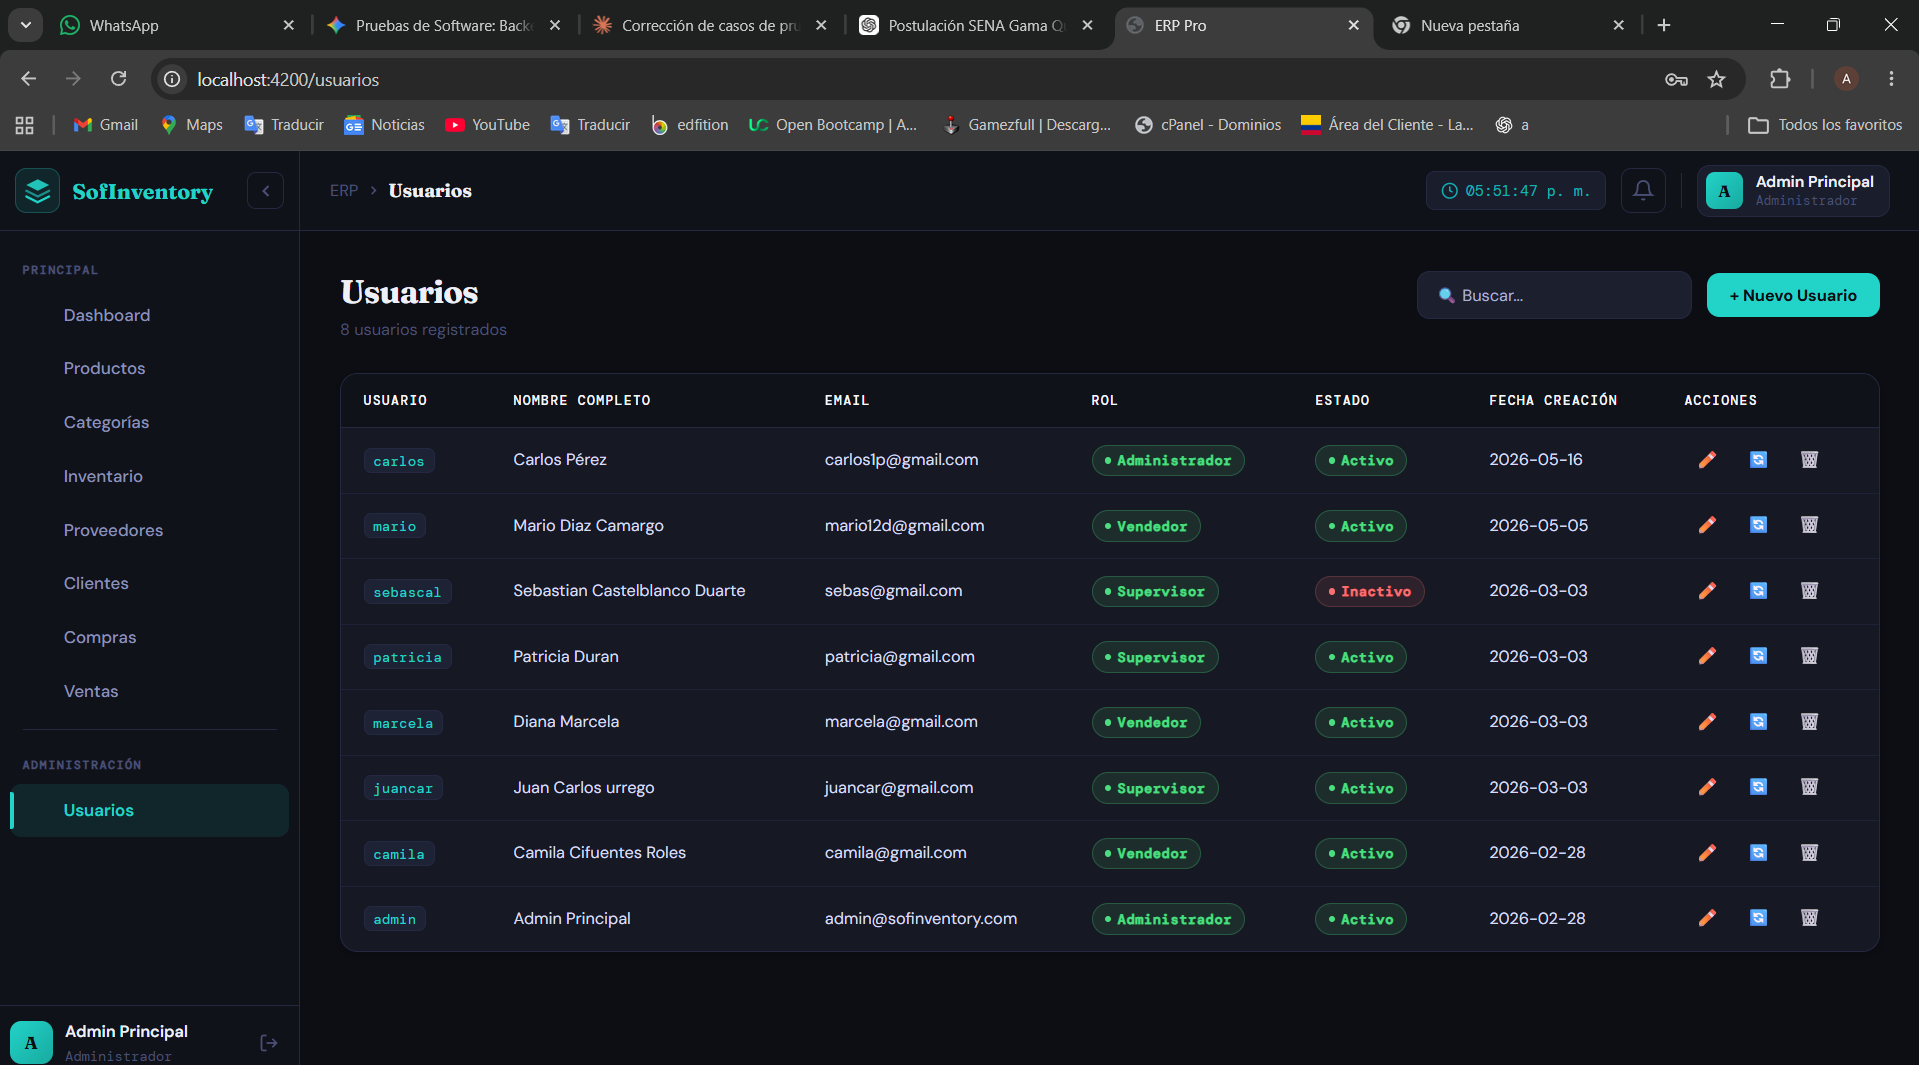
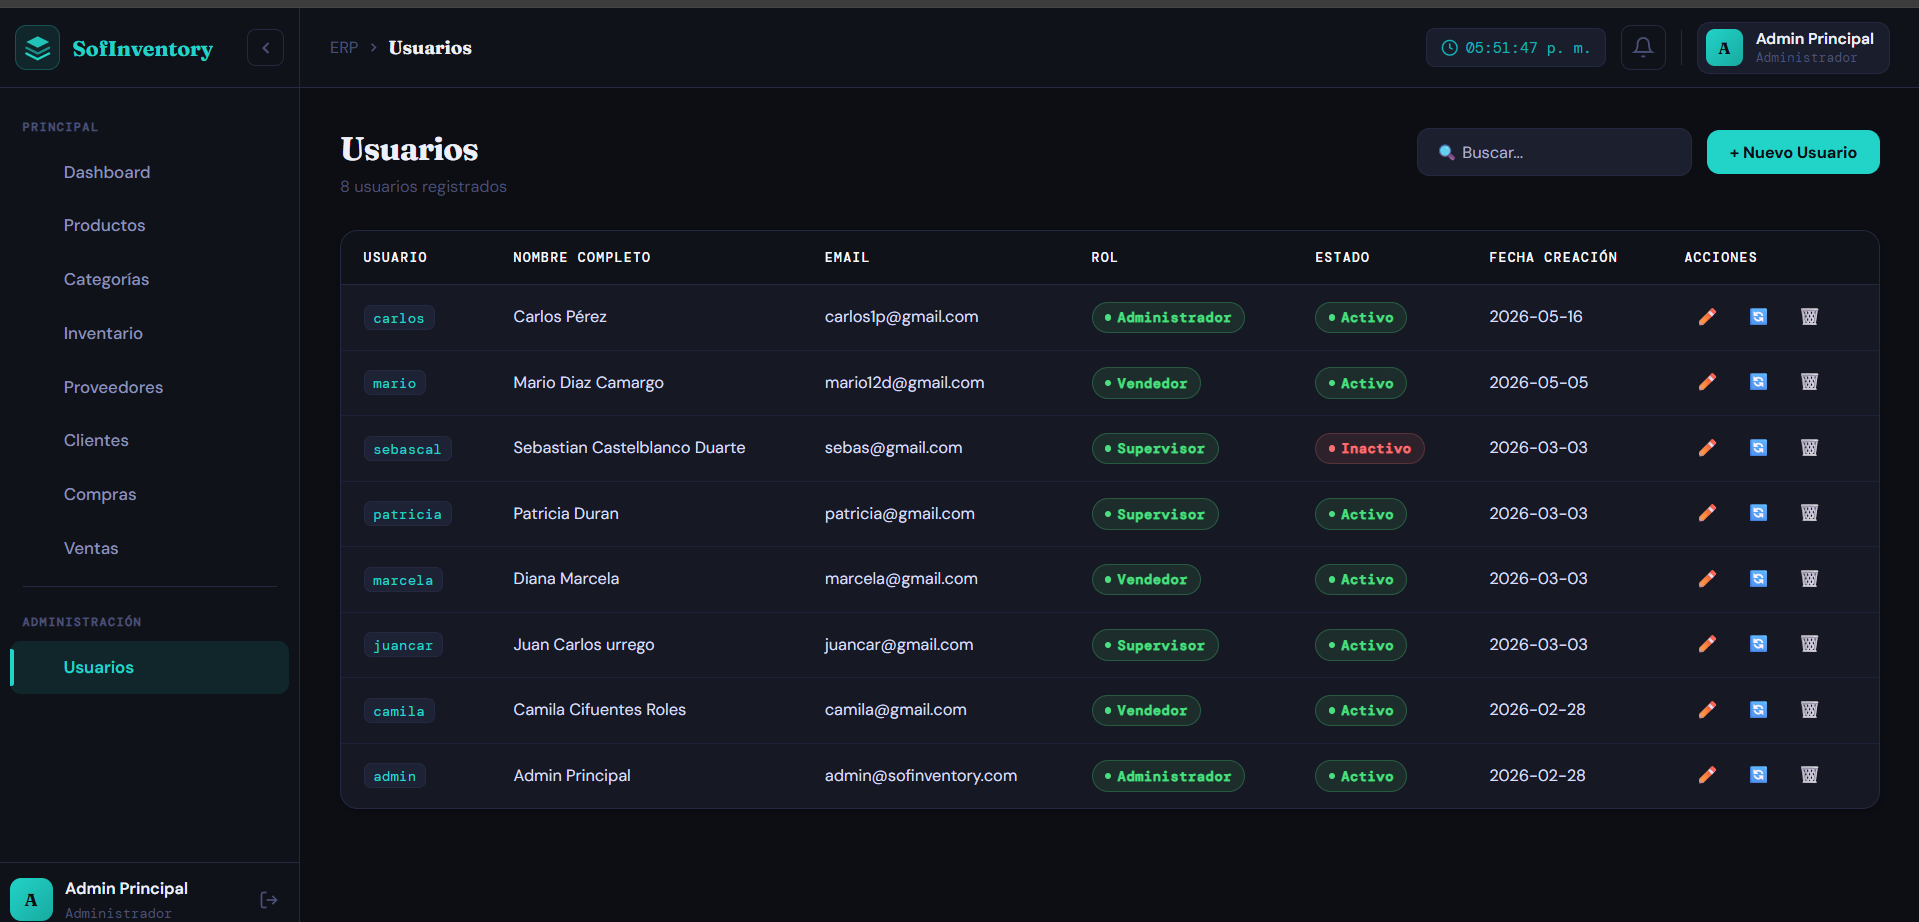
Actualizar archivos de casos de prueba en Markdown

diff --git a/docs/README.md b/docs/README.md
@@ -4,7 +4,7 @@
 > **Fecha de elaboración:** 15 de mayo de 2026 <br>
 > **Última actualización:** 16 de mayo de 2026 <br>
 > **Estado del documento:** ✅ Aprobado para revisión <br>
-> **Equipo QA:** Alejandro Sepúlveda Duarte & Lucy Estefany Izquierdo Jaramillo — Calidad de Software, SofInventory
+> **Equipo QA:** Alejandro Sepúlveda Duarte & Lucy Estefany Izquierdo Jaramillo
 
 ---
 
@@ -118,7 +118,7 @@ Verificar y validar el correcto funcionamiento de los módulos de **Login** y **
 ### 🏁 Decisión Final del Proceso Evaluativo
 
 > **CONDICIONALMENTE APROBADO** para ambiente de pruebas de aceptación (UAT).
-> Se recomienda corregir los **3 defectos encontrados** (1 en Login, 1 en Usuarios) antes del despliegue en producción. El sistema demuestra una base funcional sólida con áreas de mejora en seguridad de entradas y manejo de sesiones en el frontend.
+> Se recomienda corregir los **3 defectos encontrados** (1 en Login, 2 en Usuarios) antes del despliegue en producción. El sistema demuestra una base funcional sólida con áreas de mejora en seguridad de entradas y manejo de sesiones en el frontend.
 
 ---
 
@@ -138,7 +138,8 @@ Verificar y validar el correcto funcionamiento de los módulos de **Login** y **
 
 | Versión | Fecha | Autor | Cambios |
 |---------|-------|-------|---------|
-| 1.0.0 | 15/05/2026 | Equipo QA | Creación inicial del plan de pruebas |
+| 1.0.0 | 15/05/2026 | Alejandro Sepúlveda Duarte | Creación inicial del plan de pruebas |
+| 1.0.1 | 16/05/2026 | Licy Estefany Izquierdo Jaramillo | Creación inicial del test-cases de usuarios |
 
 ---
 

diff --git a/docs/test-cases/01-modulo-usuarios/casos-usuarios.md b/docs/test-cases/01-modulo-usuarios/casos-usuarios.md
@@ -1,10 +1,10 @@
 # 🧪 Casos de Prueba — Módulo Usuarios
 
-> **Versión:** 1.0.0 <br>
+> **Versión:** 1.0.1 <br>
 > **Módulo:** Gestión de Usuarios <br>
 > **Prefijo de código:** TC-USR <br>
 > **Total de casos:** 8 <br>
-> **Fecha:** 15 de mayo de 2026 <br>
+> **Fecha:** 16 de mayo de 2026 <br>
 > **Autor:** Lucy Estefany Izquierdo Jaramillo
 
 ---
@@ -41,9 +41,9 @@ El módulo de Usuarios permite al administrador registrar nuevas cuentas en el s
 | Componente | Detalle |
 |---|---|
 | Backend | Django 4.x + Django REST Framework |
-| Base de datos | PostgreSQL 15 |
-| Frontend | Angular 17 |
-| Herramienta API | Postman v11 |
+| Base de datos | PostgreSQL 18+ |
+| Frontend | Angular 19 |
+| Herramienta API | Postman v12 |
 | Herramienta BD | pgAdmin 4 |
 | Ambiente | Local (desarrollo) |
 
@@ -579,4 +579,4 @@ El usuario accedió correctamente. Se generó un token Bearer válido almacenado
 
 ---
 
-*© 2026 SofInventory — Área de Calidad de Software | Versión 1.0.0*
+*© 2026 SofInventory — Área de Calidad de Software | Versión 1.0.1*

diff --git a/docs/test-cases/01-modulo-usuarios/README.md b/docs/test-cases/01-modulo-usuarios/README.md
@@ -1,9 +1,9 @@
 # 👤 Módulo 01 — Gestión de Usuarios
 
-> **Versión:** 1.0.0 <br>
+> **Versión:** 1.0.1 <br>
 > **Módulo:** Usuarios <br>
 > **Código de módulo:** MOD-USR <br>
-> **Fecha:** 15 de mayo de 2026
+> **Fecha:** 16 de mayo de 2026
 
 ---
 
@@ -82,7 +82,7 @@ Este módulo es la base del sistema de autenticación: **un usuario debe existir
 | TC-USR-007 | Verificación de contraseña hasheada en BD | ✅ Pasó |
 | TC-USR-008 | Usuario creado puede iniciar sesión | ✅ Pasó |
 
-**Resultado:** 7/8 casos aprobados — **87.5% de éxito**
+**Resultado:** 6/8 casos aprobados — **75.0% de éxito**
 
 ---
 
